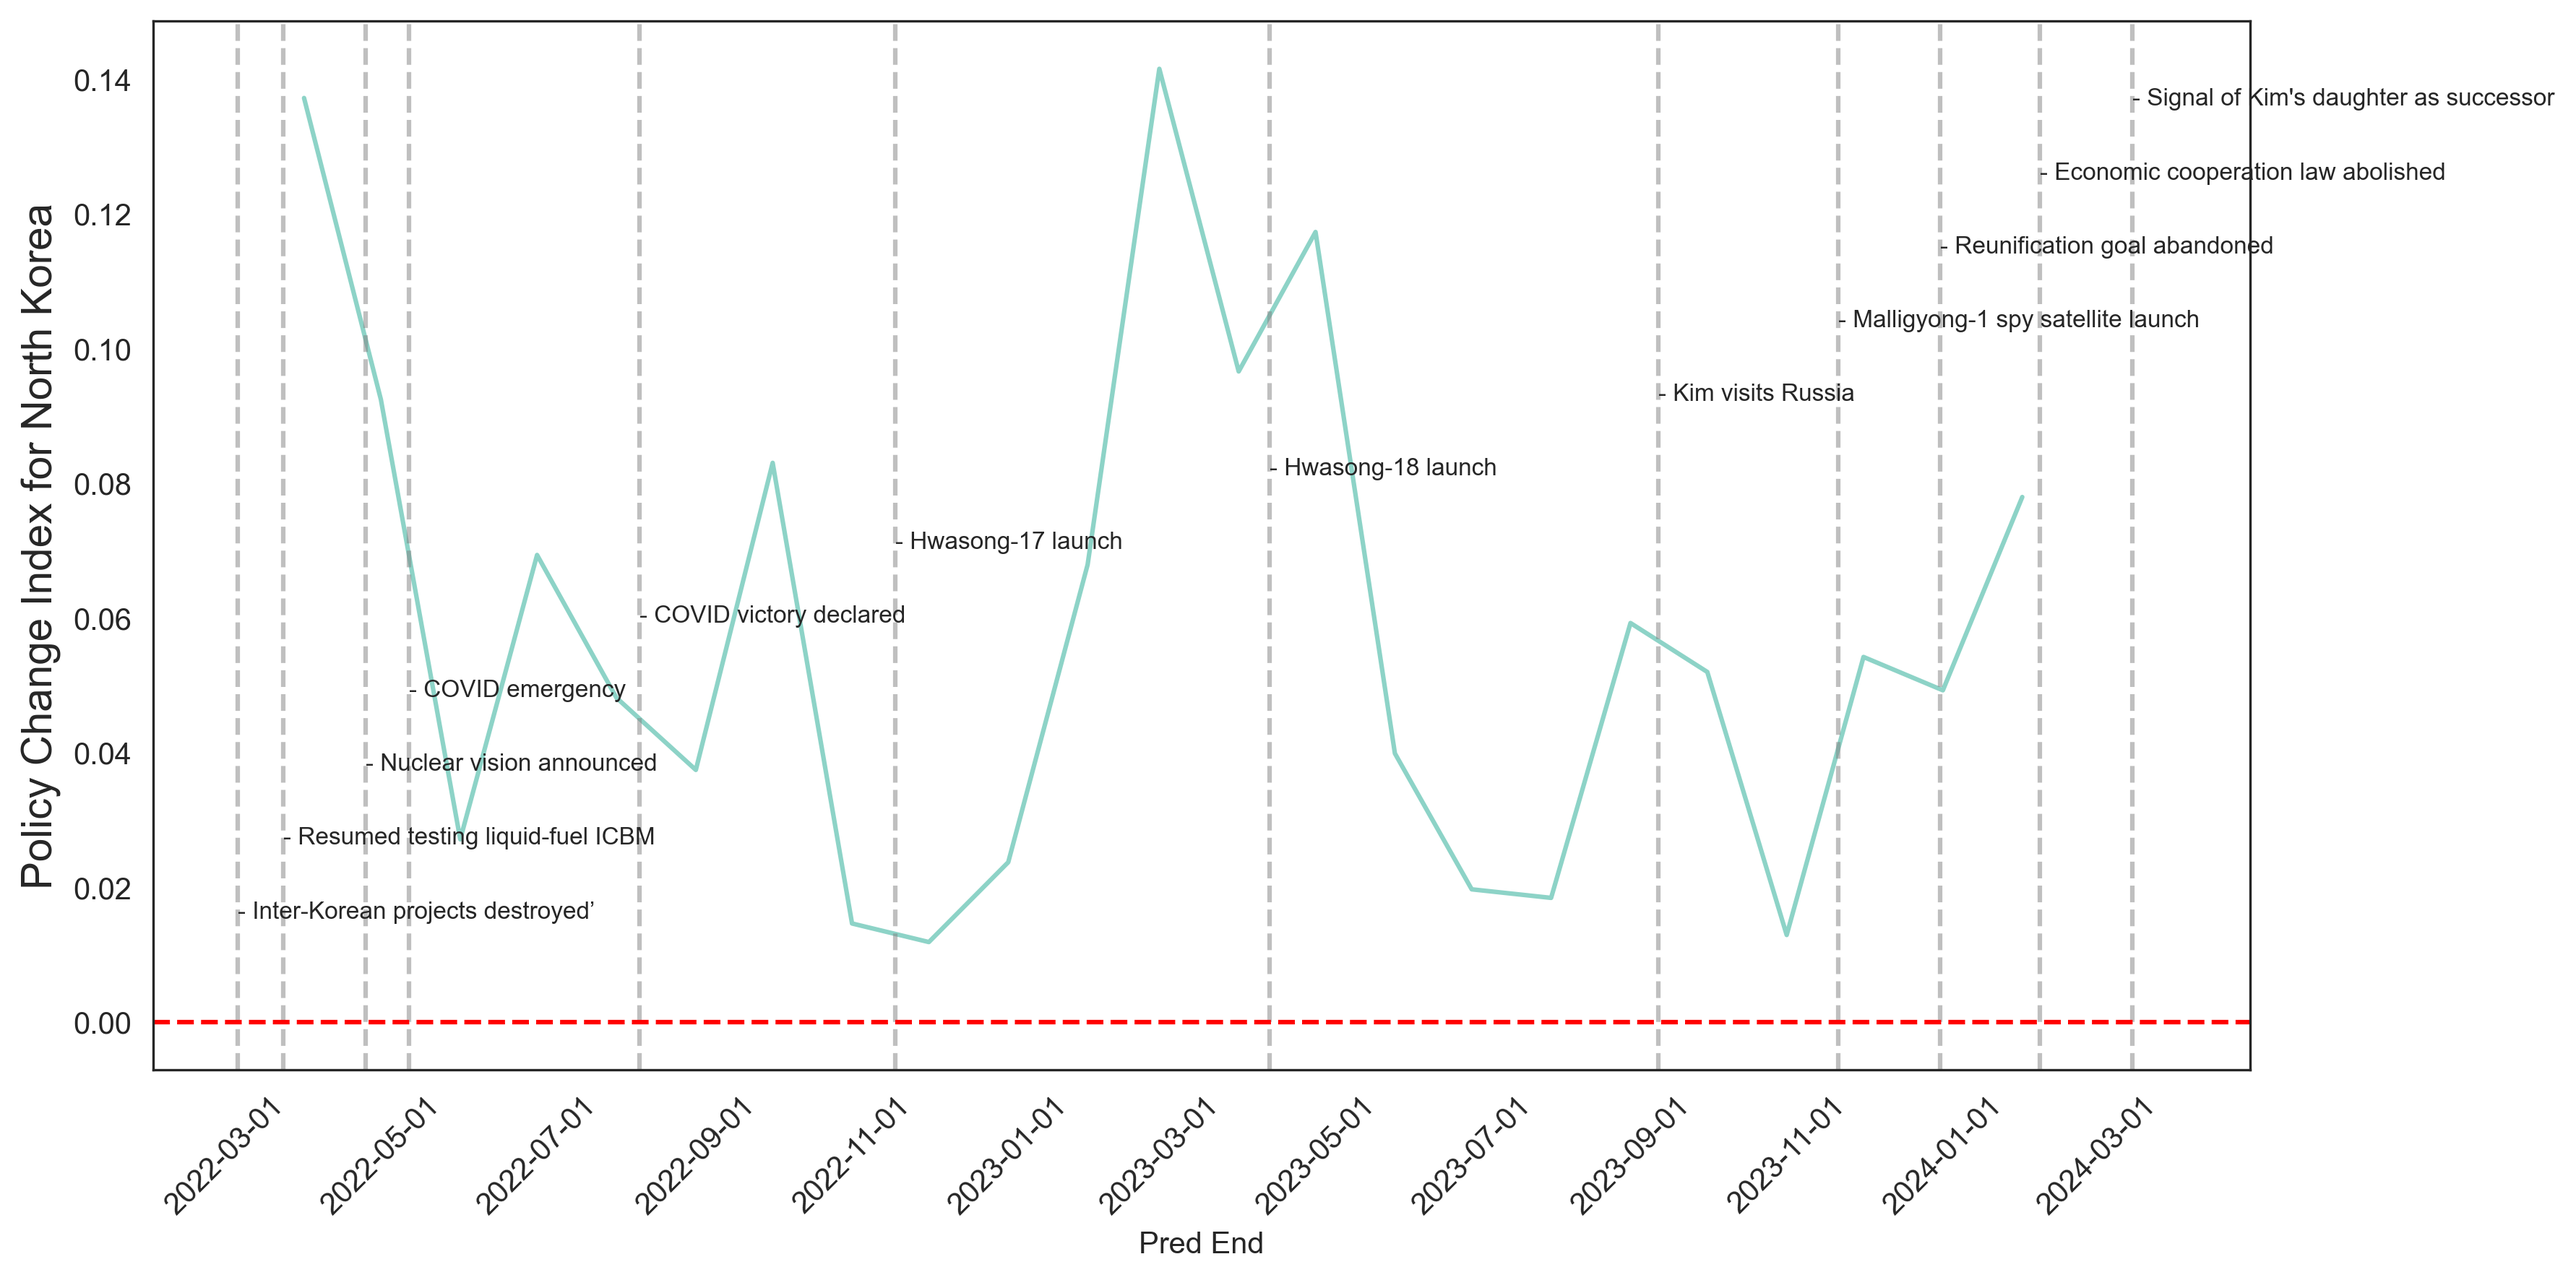
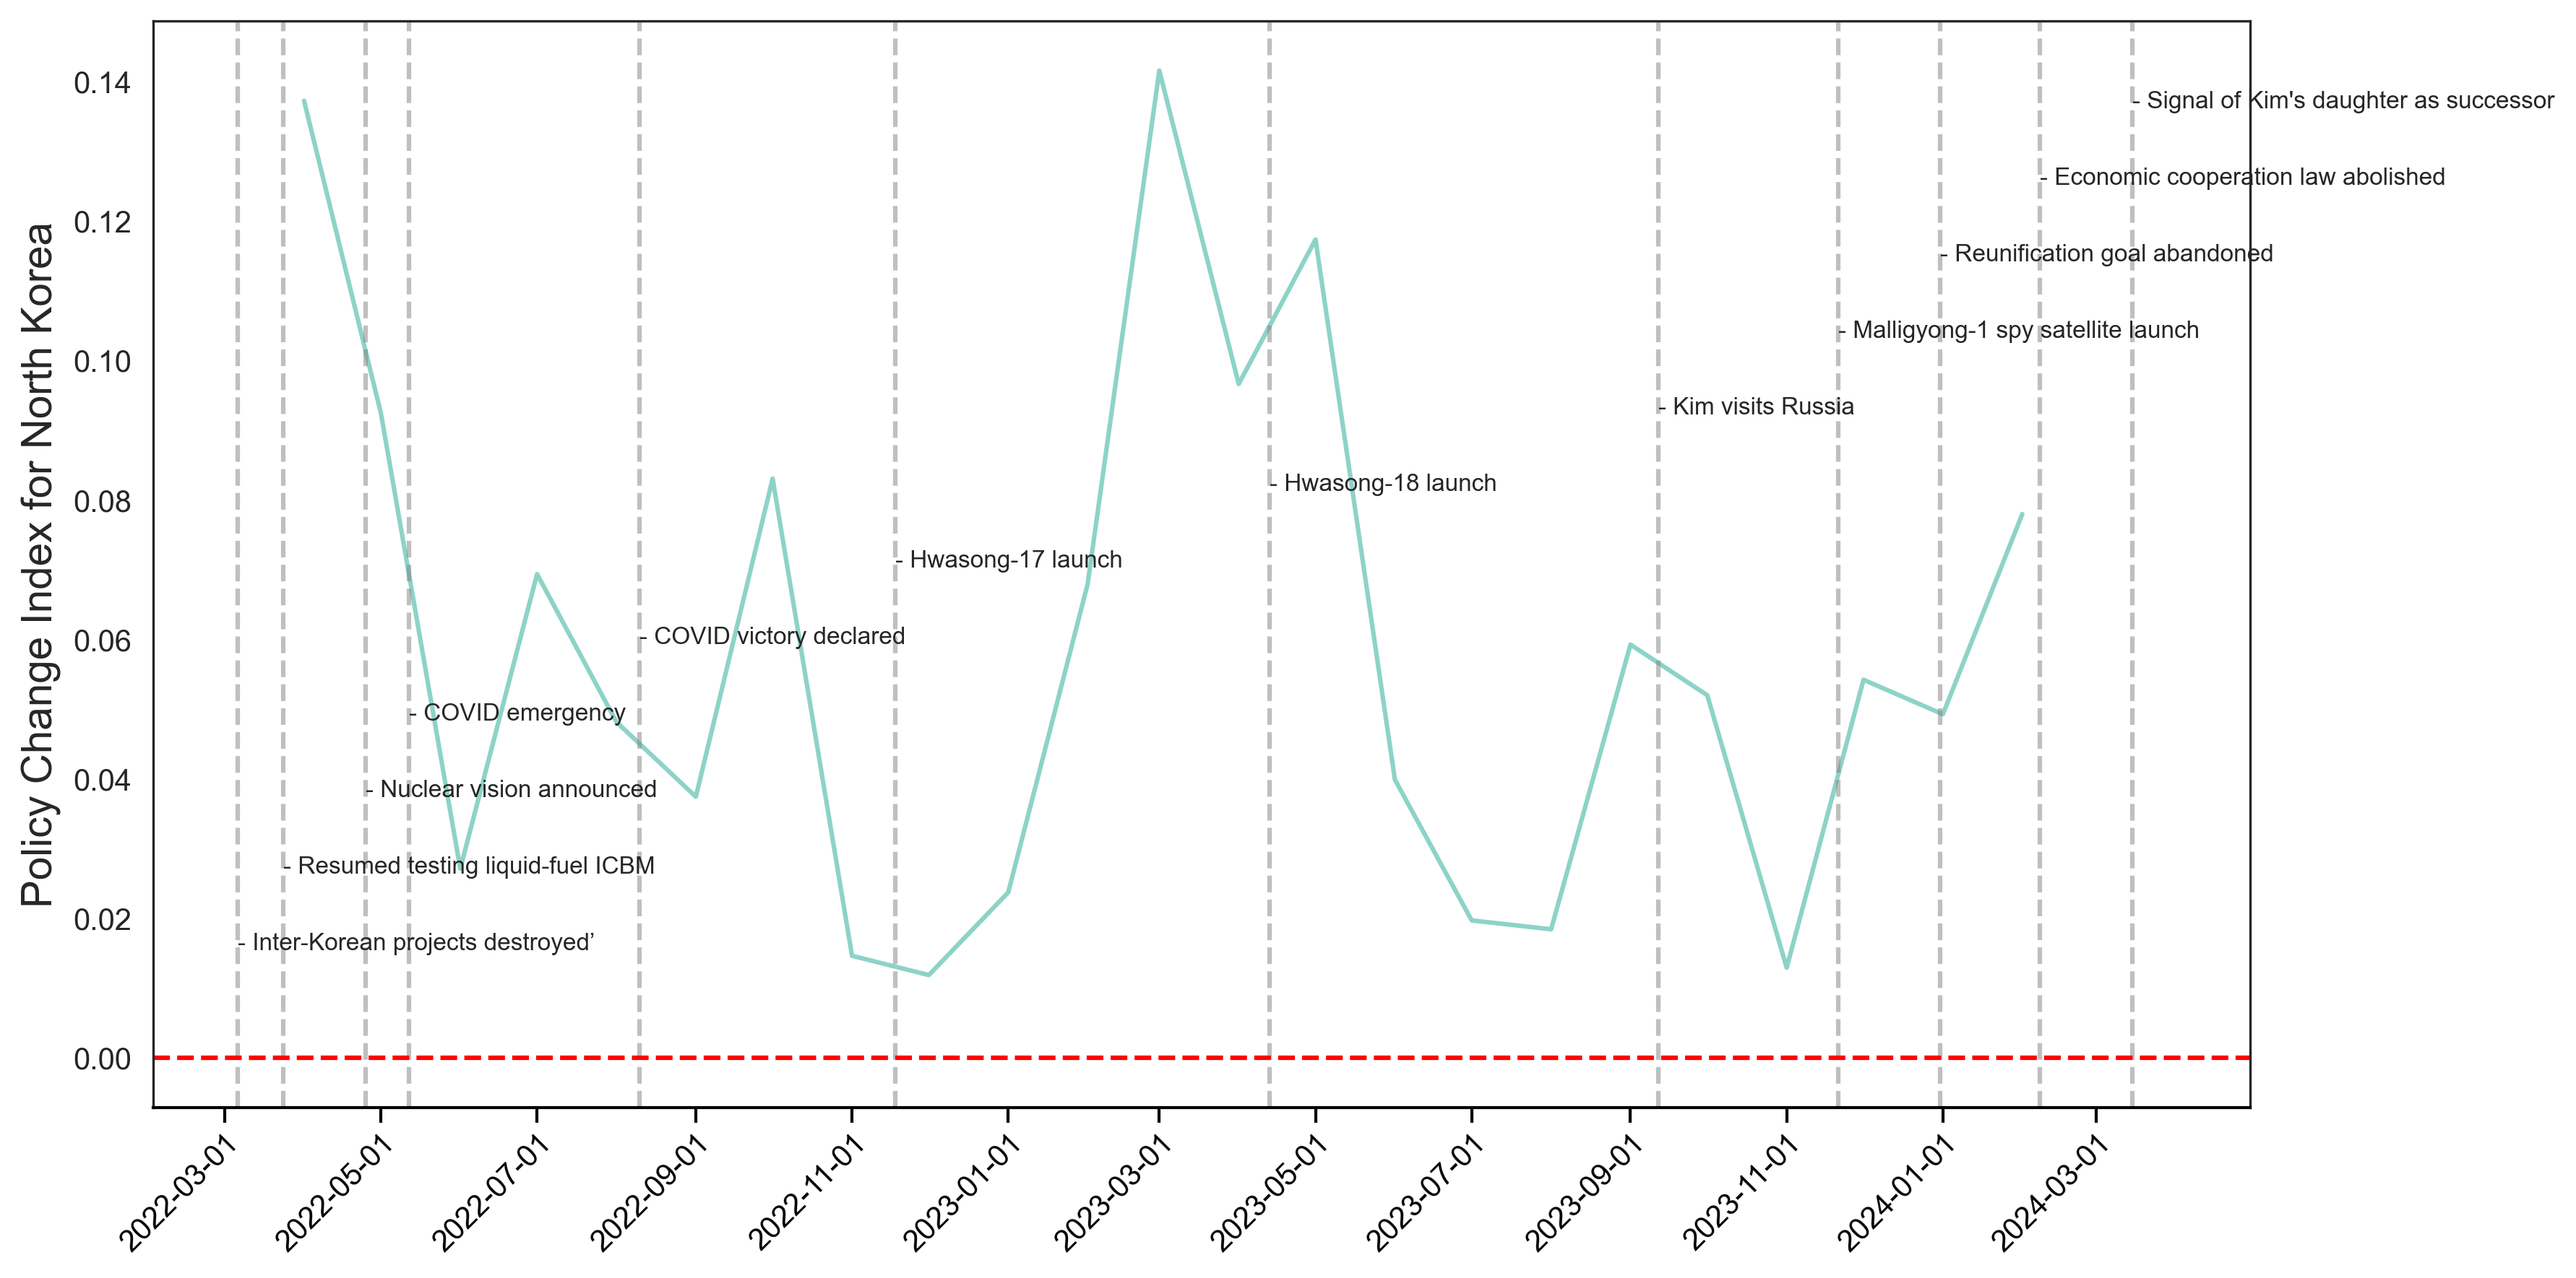
Added demo_results.csv file; changed PCI to be the abs value of the diff; updated plots

diff --git a/src/analysis_util.py b/src/analysis_util.py
@@ -86,12 +86,12 @@ def plot_results(df, event_dates, output_dir='../results/figures'):
 
     # Plot the results
     plt.figure(figsize=(12, 6), facecolor='white')
-    sns.set_style("white")  # 使用白色背景，不包含网格线
+    sns.set_style("white")  
 
     ax = sns.lineplot(data=plot_df, x='Pred End', y='Test F1', label='Test F1', color='navy')
     sns.lineplot(data=plot_df, x='Pred End', y='Pred F1', label='Pred F1', color='crimson')
 
-    # 移除网格线
+    # Remove grids
     ax.grid(False)
 
     # Add vertical lines for important events and event descriptions
@@ -105,17 +105,36 @@ def plot_results(df, event_dates, output_dir='../results/figures'):
         ax.text(event_date, event_position, event_desc, rotation=0, ha='left', va='center', fontsize=8)
 
     plt.title('Test and Prediction F1 Over Time', fontsize=16)
-    plt.xlabel('Prediction End Date', fontsize=14)
     plt.ylabel('F1 Score', fontsize=14)
-    plt.xticks(rotation=45)
-    ax.xaxis.set_major_formatter(mdates.DateFormatter('%Y-%m-%d'))
-
-    # Set x-axis ticks to every two months
+    
+    # Set x-axis ticks to every two months and rotate labels
     ax.xaxis.set_major_locator(mdates.MonthLocator(interval=2))
     ax.xaxis.set_major_formatter(mdates.DateFormatter('%Y-%m-%d'))
+    plt.xticks(rotation=45, ha='right', rotation_mode='anchor')
 
     # Adjust the x-axis limits to show the desired time range
     ax.set_xlim([datetime(2022, 2, 1), datetime(2024, 4, 30)])
+
+    # Remove x-axis label
+    ax.set_xlabel('')
+
+    # Configure tick lines to protrude downward
+    ax.tick_params(
+        axis='x',
+        which='major',
+        direction='out',   # Tick direction outward (downward)
+        length=5,         # Length of major ticks
+        width=1,           # Width of tick lines
+        colors='black',    # Color of tick lines
+        pad=2,             # Distance between tick labels and tick lines
+        bottom=True,       # Show ticks at the bottom
+        top=False          # Don't show ticks at the top
+    )
+
+    # Ensure the bottom spine is visible and styled
+    ax.spines['bottom'].set_visible(True)
+    ax.spines['bottom'].set_linewidth(1)
+    ax.spines['bottom'].set_color('black')
 
     plt.tight_layout()  # Adjust the plot to ensure everything fits without overlapping
     plt.savefig(output_file_1, dpi=300, bbox_inches='tight', facecolor='white')  # Set facecolor to 'white'
@@ -123,12 +142,11 @@ def plot_results(df, event_dates, output_dir='../results/figures'):
 
     # Second plot to show the difference between the test and prediction F1
     plt.figure(figsize=(12, 6), facecolor='white')
-    sns.set_style("white")  # 使用白色背景，不包含网格线
+    sns.set_style("white")  
 
     plot_df['F1 Diff'] = plot_df['Test F1'] - plot_df['Pred F1']
     ax = sns.lineplot(data=plot_df, x='Pred End', y='F1 Diff')
 
-    # 移除网格线
     ax.grid(False)
 
     # Add vertical lines for important events and event descriptions
@@ -143,19 +161,39 @@ def plot_results(df, event_dates, output_dir='../results/figures'):
 
     plt.ylabel('Policy Change Index for North Korea', fontsize=14)
     plt.axhline(0, color='red', linestyle='--')  # Add a horizontal line at 0
-    plt.xticks(rotation=45)
-
-    # Set x-axis ticks to every two months
+    
+    # Set x-axis ticks to every two months and rotate labels
     ax.xaxis.set_major_locator(mdates.MonthLocator(interval=2))
     ax.xaxis.set_major_formatter(mdates.DateFormatter('%Y-%m-%d'))
+    plt.xticks(rotation=45, ha='right', rotation_mode='anchor')
 
     # Adjust the x-axis limits to show the desired time range
     ax.set_xlim([datetime(2022, 2, 1), datetime(2024, 4, 30)])
 
+    # Remove x-axis label
+    ax.set_xlabel('')
+
+    # Configure tick lines to protrude downward
+    ax.tick_params(
+        axis='x',
+        which='major',
+        direction='out',   # Tick direction outward (downward)
+        length=5,         # Length of major ticks
+        width=1,           # Width of tick lines
+        colors='black',    # Color of tick lines
+        pad=2,             # Distance between tick labels and tick lines
+        bottom=True,       # Show ticks at the bottom
+        top=False          # Don't show ticks at the top
+    )
+
+    # Ensure the bottom spine is visible and styled
+    ax.spines['bottom'].set_visible(True)
+    ax.spines['bottom'].set_linewidth(1)
+    ax.spines['bottom'].set_color('black')
+
     plt.tight_layout()
     plt.savefig(output_file_2, dpi=300, bbox_inches='tight', facecolor='white')  # Set facecolor to 'white'
     plt.show()
-
 
 ########################################################### 
 ## 2. LLM analysis

diff --git a/src/model.py b/src/model.py
@@ -265,7 +265,7 @@ def main(args):
                          columns=['Train Start', 'Train End', 'Pred Start', 'Pred End', 'Test F1', 'Pred F1'])
     
     all_res = pd.concat([all_res, res], ignore_index=True)
-    all_res['PCI'] = (all_res['Test F1'] - all_res['Pred F1'])
+    all_res['PCI'] = abs((all_res['Test F1'] - all_res['Pred F1']))
     all_res.to_csv(all_res_file, index=False)
 
     # Print the full training history
